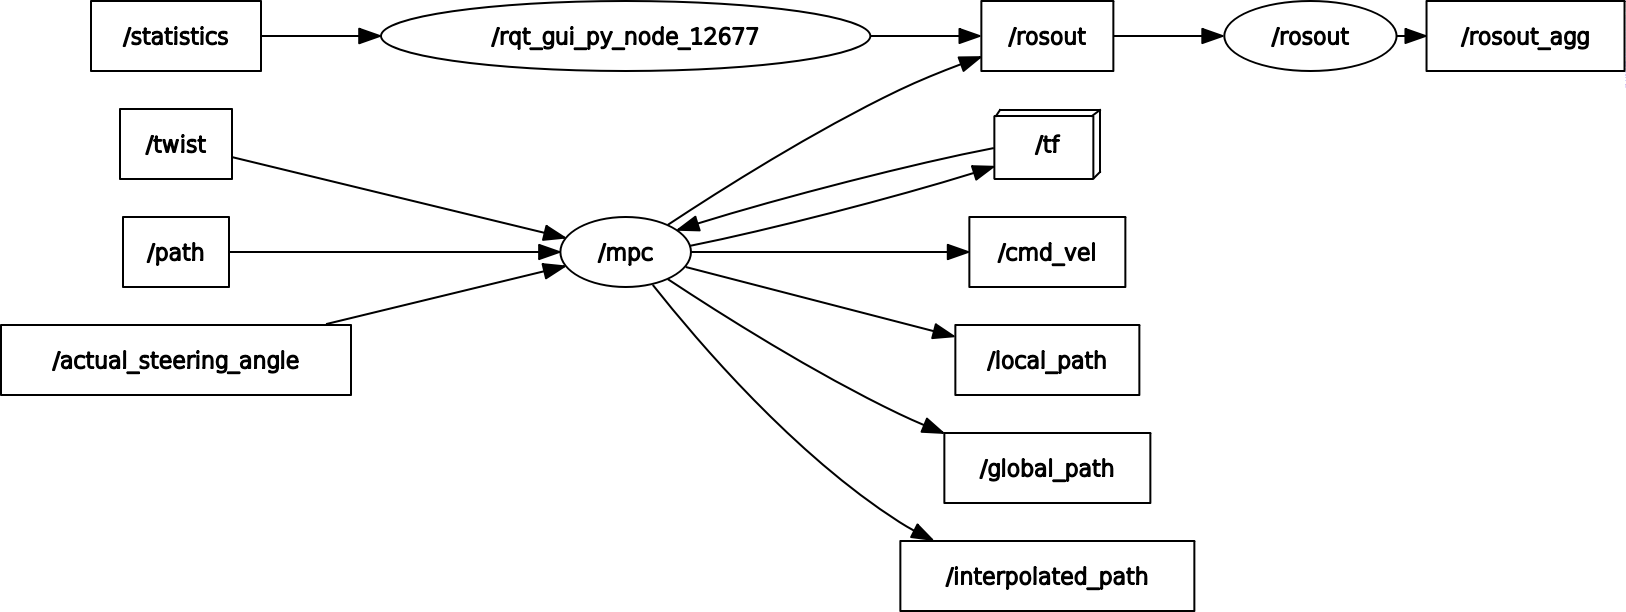
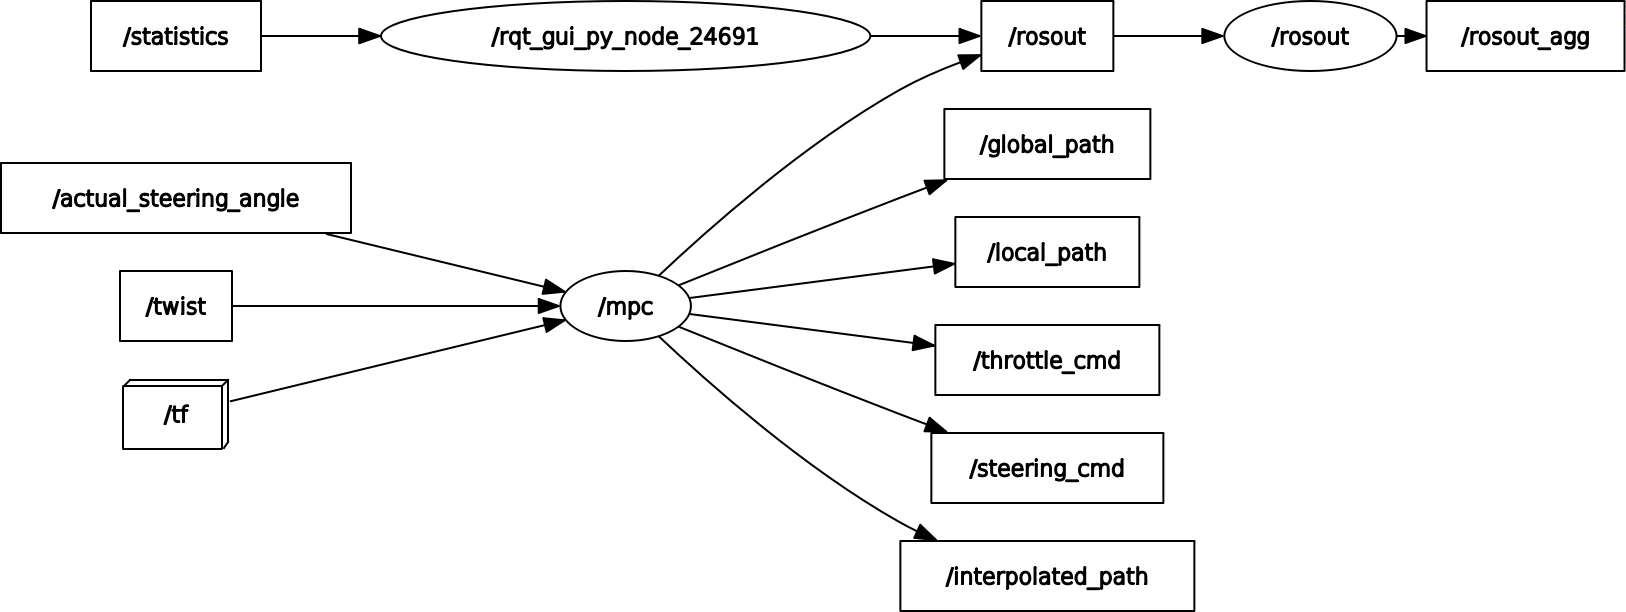
updated readme fix #1

diff --git a/README.md b/README.md
@@ -14,102 +14,66 @@ A nonlinear MPC used to control an autonomous car.
 
 
 ## :notebook_with_decorative_cover: **Description** <a name="description"></a>
-This repository contains an implementation of a nonlinear MPC that is used to control an autonomous car. To do this [ipopt](https://coin-or.github.io/Ipopt/) is used to solve a nonlinear optimization problem. [CppAD](https://coin-or.github.io/CppAD/doc/cppad.htm) is used to interface with ipopt. See this [example](https://www.coin-or.org/CppAD/Doc/ipopt_solve_get_started.cpp.htm) for more information.
-The structure of the MPC is inspired by Udacity's [example MPC](https://medium.com/@techreigns/model-predictive-control-implementation-for-autonomous-vehicles-932c81598b49) for their simulator. On top of this there is implemented a ROS interface.
+This repository contains an implementation of a nonlinear MPC (NMPC) that is used to control an autonomous car. The mpc is made for the Norwegian student organization [Fuel Fighter](https://www.fuelfighter.no/). [Acados](https://docs.acados.org/) is used to get access to fast solvers tailored for NMPC. Acados python interface is then used to generate C code that we use in our C++ program. Firstly we interpolate a third order polynomial to fit a small section of the track in front of the car. Then we input this into the solver. The mpc is designed so that the car wants to stay on the track and keep a constant speed. There are several parameters that can be tuned so that the mpc works optimally. See [parameter section](#parameters).
 
 <div align="center">
-  <img src="images/mpc_demo.gif" width="400">
-  <br>
-  <figcaption align="center">Demo of MPC using gazebo simulator and audibot car</figcaption>
+ <img src="images/mpc_demo.gif" width="400">
+ <br>
+ <figcaption align="center">Demo of MPC using gazebo simulator and audibot car</figcaption>
 </div>
-
+ 
 ### **ROS interface** <a name="ROS_interface"></a>
 The mpc is made for ROS noetic. All of the inputs to the mpc and outputs are therefore sendt using topics and transforms. The MPC needs to know the state of the car and where the track is. Transforms are used to figure out where the car is. The code looks up the latest transform from a map frame to a car frame. How fast we are going is sent to us as a Twist message on a given topic. It is also required to have a topic where the actual steering angle of the car is published. This is necessary since the car can not turn the wheels infinitely fast. Lastly the MPC needs to know where we want the car to drive. This is sent over the path topic as a path message.
 
-The output of the MPC is a steering angle and acceleration. Currently the acceleration is not used as we set a constant speed. This data is then converted to a twist message using the akerman model to determine what the resulting angular velocity from the steering angle is. In addition to the commands sent to the car several path messages are also published. */global_path* is the reference track. This is where we want the car to drive. This is the green line seen in the gif. */local_path* is where the mpc is planning to drive. This is shown in red. Lastly we have */interpolated_path*. This is a interpolation of the */global_path* using a third order polynomial. The names of all the frames and topics can be found and changed in the file RosMpc.h.
+The output of the MPC is a steering angle and throttle value. These values are published on two seperate topics: */steering_cmd* and */throttle_cmd*. In addition to the commands sent to the car several path messages are also published. */global_path* is the reference track. This is where we want the car to drive. This is the green line seen in the gif. */local_path* is where the mpc is planning to drive. This is shown in red. Lastly we have */interpolated_path*. This is a interpolation of the */global_path* using a third order polynomial. The names of most of the frames and topics can be found and changed in the file */params/mpc.yaml*
+
 <div align="center">
-  <img src="images/ros_graph_MPC.png" width="700">
-  <br>
-  <figcaption align="center">ROS interface for MPC</figcaption>
+ <img src="images/ros_graph_MPC.png" width="700">
+ <br>
+ <figcaption align="center">ROS interface for MPC</figcaption>
 </div>
-
+ 
 ## :hammer_and_wrench: **Install** <a name="install"></a>
-The MPC requires several things to work. Mainly it is the optimizer ipopt and of course ROS.
-
+The MPC requires several things to work. Mainly it is the library Acados and of course ROS.
+ 
 1. **ROS**
-
+ 
    ROS is used to send and receive data. It can be installed by following [this]((http://wiki.ros.org/noetic/Installation)) tutorial. If you already have ROS installed you can skip this. ROS noetic is used, however other versions may also work.
- 
 2. **Clone**
- 
    Clone this repository into the src folder in a catkin workspace. Example:
 
    ```terminal
    cd ~/catkin_ws/src
    git clone https://gitlab.stud.idi.ntnu.no/fuelfighter/autonomous/planning-control/mpc_local_planner.git
    ```
+3. **Acados**
  
-3. **Ipopt**
- 
-   Ipopt is the solver used to solve the optimization problem. First we need to download the source code and dependencies. I recommend doing this in a folder called "c++_libraries" or similar.
- 
-   ```terminal
-   cd ~/c++_libraries #or another folder
-   sudo apt-get install gcc g++ gfortran git patch wget pkg-config liblapack-dev libmetis-dev
-   sudo apt-get install unzip
-   wget https://www.coin-or.org/download/source/Ipopt/Ipopt-3.12.7.zip &&
-   unzip Ipopt-3.12.7.zip &&
-   rm Ipopt-3.12.7.zip
-   ```
- 
-   We are now ready to build the library. To do this the easiest is to use the file *install_ipopt.sh*. The file does all the building for you. You need to specify where the ipopt folder is located. Example:
- 
-   ```terminal
-   sudo bash install_ipopt.sh ~/c++_libraries/Ipopt-3.12.7
-   ```
- 
-4. **CppAD**
- 
-   CppAD is used to interface with ipopt. It can be installed by running
- 
-   ```terminal
-   sudo apt-get install cppad
-   ```
- 
+  Firstly follow this [guide](https://docs.acados.org/installation/index.html) to download and build the acados library. **Choose the Cmake alternative**. Once that is done we need to set it up with the python interface. I recommend using a virtual environment for this (as do they). To make compiling this code easier make sure to create the virtual environment in *<acados_root>/build/*. If you do not do this the code will not compile. You will have to change CmakeLists.txt. Follow the steps in this [guide](https://docs.acados.org/python_interface/index.html). Remember to add the lines from step four into *.bashrc*
 5. **MPC**
- 
-   Now we are ready to build the mpc. This is done by using catkin build or catkin_make. Example:
- 
-   ```terminal
-   catkin build
-   ```
- 
+  Now we are ready to build the mpc. This is done by using catkin build or catkin_make in your catkin workspace. Example:
+  ```terminal
+  catkin build
+  ```
 ## :rocket: **Usage** <a name="usage"></a>
-
+ 
 ### **Parameters** <a name="parameters"></a>
-Once everything is installed and built we are ready to define the parameters for the mpc. This is done using *rosparam*. The parameters are defined in a *.yaml* file in the folder *params*. These parameters need to be correct for your vehicle so that the mpc will work optimally. The parameters can be found and changed in *params/mpc.yaml*. If some critical parameters are not defined the code will not run. It will throw an error telling you what parameter it is missing. Other noncritical parameters cause warnings and some do not even do that. Therefore make sure your parameters are correct. It is not necessary to recompile the code after changing one or more parameters. Simply rerun it as explained in the next section.
+Once everything is installed and built we are ready to define the parameters for the mpc. This is done using *rosparam*. The parameters are defined in a *.yaml* file in the folder *params*. These parameters need to be correct for your vehicle so that the mpc will work optimally. The parameters can be found and changed in *params/mpc.yaml*. If some critical parameters are not defined the code will not run. It will throw an error telling you what parameter it is missing. Other noncritical parameters cause warnings and some do not even do that. Therefore make sure your parameters are correct. Some parameters are used in the python code to generate c code. If you change one or more of these parameters you will therefore need to recompile the code using catkin build or catkin_make
 
 ### **Run** <a name="run"></a>
 Finally we are ready to run the code. This is done by using *launch* files. The main launch file is *mpc.launch*. You can run this file in the following way.
- 
 ```terminal
 source devel/setup.bash
 roslaunch mpc_local_planner mpc.launch
 ```
- 
 You could also specify if you do not want to start rviz by setting the argument rviz:=false.
- 
 ```terminal
 roslaunch mpc_local_planner mpc.launch rviz:=false
 ```
- 
 It is also possible to only start rviz be using *rviz.launch*. The syntax is the same as for *mpc.launch*.
- 
 ```terminal
 roslaunch mpc_local_planner rviz.launch
 ```
- 
+
 ## :link: **References** <a name="references"></a>
-- [ipopt](https://coin-or.github.io/Ipopt/)
-- [example mpc](https://medium.com/@techreigns/model-predictive-control-implementation-for-autonomous-vehicles-932c81598b49)
-- [CppAD](https://coin-or.github.io/CppAD/doc/cppad.htm)
+- [Acados documentation](https://docs.acados.org/)
+- [Acados github](https://github.com/acados/acados)
